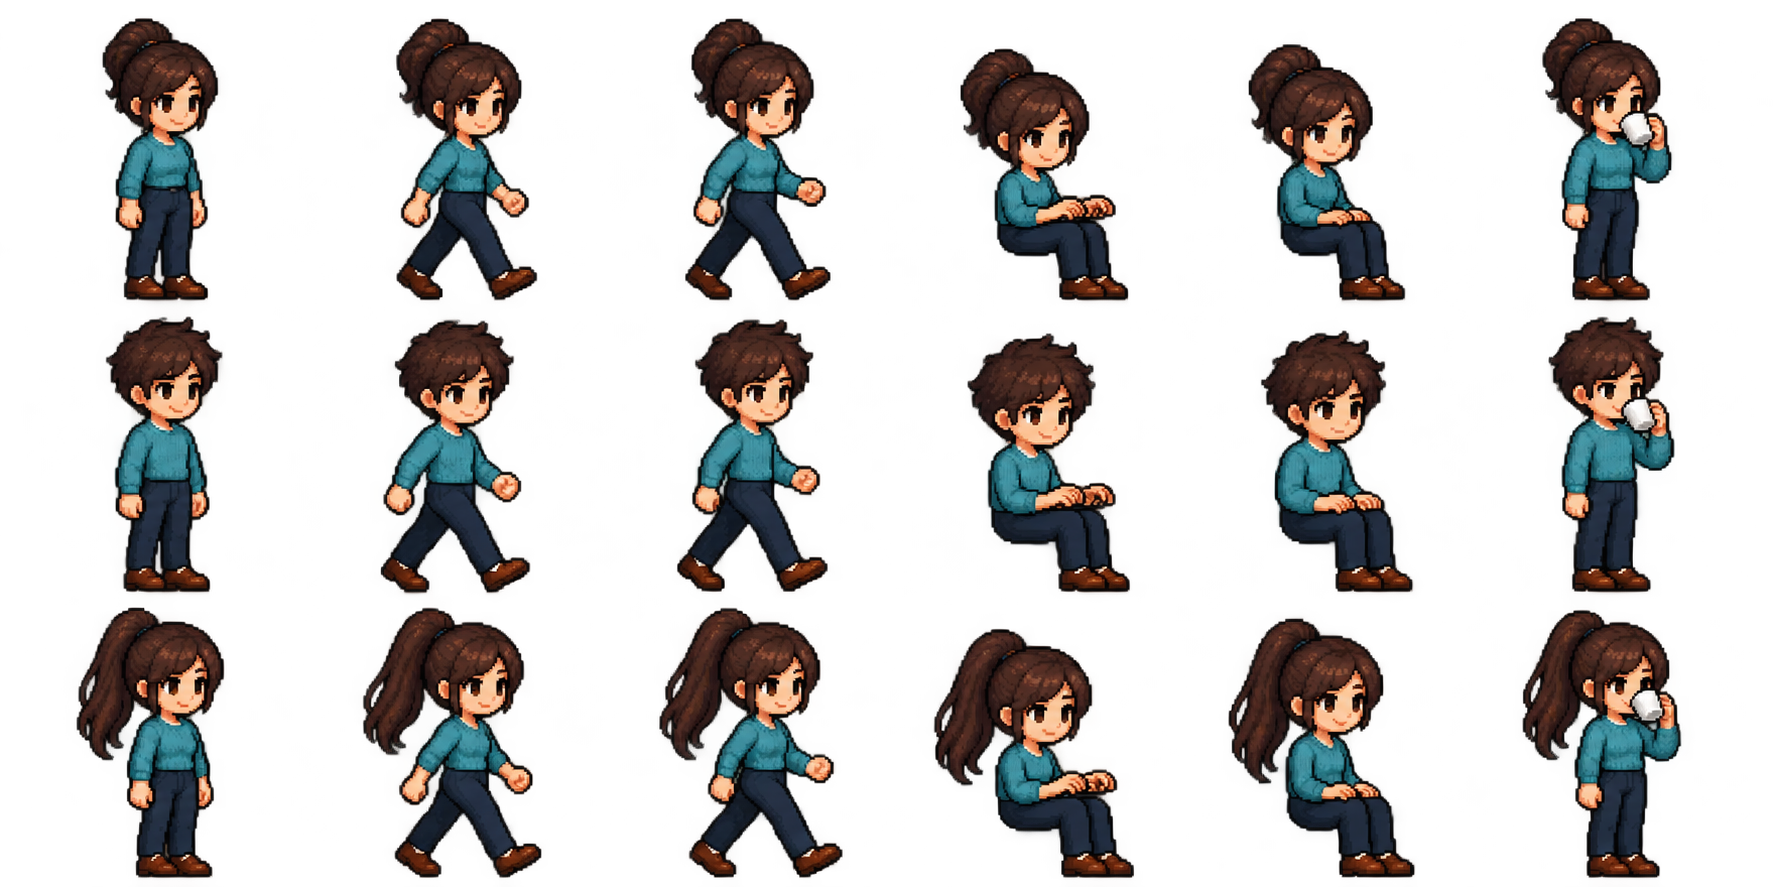
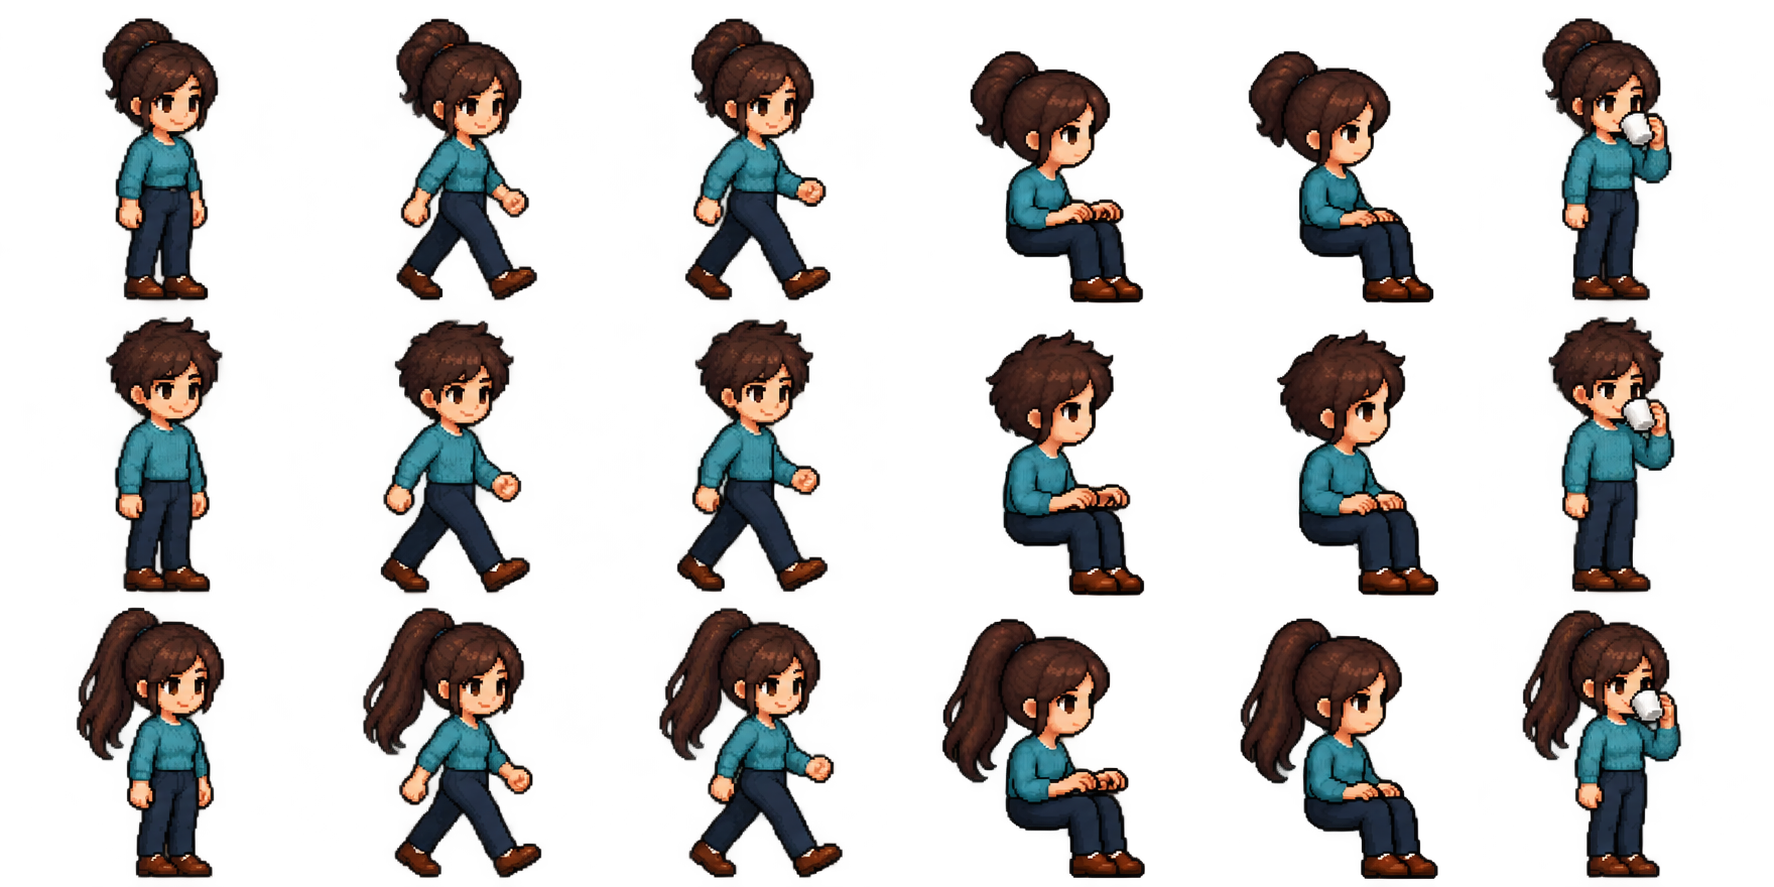
Align workshop seated profiles and preserve private room layouts

diff --git a/resources/app/public/agent-office-scene.js b/resources/app/public/agent-office-scene.js
@@ -24,7 +24,14 @@ let resources;
 function load(){if(!resources)resources=Promise.all([import('/agent-office-workshop-model.js'),...['architecture','furniture','people','desk','people-back','tall-furniture','wall-atlas','stairs','stations','office-chair'].map(name=>new Promise((resolve,reject)=>{const image=new Image();image.onload=()=>resolve(image);image.onerror=reject;image.src=BASE+name+'.png';}))]).then(([,architecture,furniture,people,desk,peopleBack,tallFurniture,wallAtlas,stairs,stations,officeChair])=>(loadedArt={architecture,furniture,people,desk,peopleBack,tallFurniture,wallAtlas,stairs,stations,officeChair,model:root.BLWorkshopModel}));return resources;}
 const COLORS={hairColor:{brown:[89,49,32],black:[36,31,32],auburn:[133,57,36],blonde:[193,144,75],silver:[150,155,160]},clothes:{cream:[211,198,171],blue:[64,103,149],green:[82,110,74],ink:[56,65,80],rust:[153,82,55]},bottoms:{navy:[37,54,73],black:[36,37,43],denim:[62,97,133],cream:[180,166,145]},shoes:{brown:[106,60,33],black:[37,34,36],white:[207,206,198]},skin:[[241,194,152],[219,159,111],[177,117,79],[130,78,52],[87,54,40]]};
 const sprites=new Map();
-const ANCHORS=[{x:58,eye:32,neck:44,body:59},{x:58,eye:32,neck:44,body:59},{x:58,eye:32,neck:44,body:59},{x:51,eye:45,neck:58,body:67},{x:54,eye:45,neck:58,body:67},{x:51,eye:32,neck:44,body:59}];
+const ANCHORS=[{x:58,eye:32,neck:44,body:59},{x:58,eye:32,neck:44,body:59},{x:58,eye:32,neck:44,body:59},{x:61,eye:44,neck:58,body:67,bodyX:54,neckX:54,profile:true},{x:61,eye:44,neck:58,body:67,bodyX:54,neckX:54,profile:true},{x:51,eye:32,neck:44,body:59}];
+// Atlas rows have different head heights; accessory anchors follow each pose.
+const SEATED_ANCHORS=[
+ [{x:60,eye:44,neck:57,body:67,bodyX:54,neckX:54,profile:true},{x:55,eye:44,neck:57,body:67,bodyX:51,neckX:51,profile:true}],
+ [{x:60,eye:36,neck:50,body:60,bodyX:54,neckX:54,profile:true},{x:60,eye:36,neck:50,body:60,bodyX:54,neckX:54,profile:true}],
+ [{x:58,eye:36,neck:50,body:60,bodyX:53,neckX:53,profile:true},{x:58,eye:36,neck:50,body:60,bodyX:53,neckX:53,profile:true}]
+];
+const poseAnchor=(profile,frame)=>frame===3||frame===4?SEATED_ANCHORS[persona(profile)][frame-3]:ANCHORS[frame];
 function sprite(p,frame,art,back=false){const a=p.avatar||{},row=persona(p),cacheKey=JSON.stringify([row,a,frame,back]);if(sprites.has(cacheKey))return sprites.get(cacheKey);const c=document.createElement('canvas');c.width=96;c.height=100;const ctx=c.getContext('2d',{willReadFrequently:true});ctx.imageSmoothingEnabled=false;
  const y=[0,305,600][row],height=[305,295,287][row],cw=1774/6;ctx.drawImage(back?art.peopleBack:art.people,frame*cw,y,cw,height,0,0,96,100);const data=ctx.getImageData(0,0,96,100),hair=COLORS.hairColor[a.hairColor]||COLORS.hairColor.brown,top=COLORS.clothes[a.clothes]||COLORS.clothes.blue,legs=COLORS.bottoms[a.bottoms]||COLORS.bottoms.navy,shoes=COLORS.shoes[a.shoes]||COLORS.shoes.brown,skin=COLORS.skin[a.skin]||COLORS.skin[0];
  for(let index=0;index<data.data.length;index+=4){if(data.data[index+3]<90)continue;const r=data.data[index],g=data.data[index+1],b=data.data[index+2],yy=Math.floor(index/4/96);let target,base;
@@ -36,8 +43,8 @@ function sprite(p,frame,art,back=false){const a=p.avatar||{},row=persona(p),cach
  if(target){const light=(r+g+b)/3/base;for(let j=0;j<3;j++)data.data[index+j]=Math.min(255,target[j]*light);}}
  ctx.putImageData(data,0,0);
  // Outfit seams and accessories share the frame's torso/head anchors.
- const anchor=ANCHORS[frame],headX=anchor.x,headY=anchor.eye-8,bodyY=anchor.body;
- if(a.top==='jacket'||a.top==='cardigan'){ctx.fillStyle='rgba(18,24,32,.55)';ctx.fillRect(headX-3,bodyY-8,2,18);ctx.fillRect(headX+8,bodyY,5,2);}if(a.top==='shirt'){ctx.fillStyle='rgba(255,255,255,.55)';ctx.fillRect(headX-2,bodyY-9,4,2);ctx.fillRect(headX,bodyY-5,1,10);}if(!back&&(a.glasses===true||a.glasses===undefined&&a.accessory==='glasses')){ctx.strokeStyle='#302d2d';ctx.lineWidth=1;ctx.strokeRect(headX-4,anchor.eye-2,6,4);ctx.strokeRect(headX+4,anchor.eye-2,6,4);ctx.fillRect(headX+2,anchor.eye-1,2,1);}if(a.ornament==='headphones'||a.ornament===undefined&&a.accessory==='headphones'){ctx.strokeStyle='#303945';ctx.lineWidth=2;ctx.beginPath();ctx.arc(headX,anchor.eye-11,13,Math.PI,Math.PI*2);ctx.stroke();ctx.fillStyle='#303945';ctx.fillRect(headX-13,anchor.eye-12,3,10);}if(a.ornament==='scarf'){ctx.fillStyle='#b76c50';ctx.fillRect(headX-5,anchor.neck-2,15,3);ctx.fillRect(headX+5,anchor.neck+1,3,11);}
+ const anchor=poseAnchor(p,frame),headX=anchor.x,bodyX=anchor.bodyX??headX,neckX=anchor.neckX??headX,bodyY=anchor.body;
+ if(a.top==='jacket'||a.top==='cardigan'){ctx.fillStyle='rgba(18,24,32,.55)';ctx.fillRect(bodyX-3,bodyY-8,2,18);ctx.fillRect(bodyX+8,bodyY,5,2);}if(a.top==='shirt'){ctx.fillStyle='rgba(255,255,255,.55)';ctx.fillRect(bodyX-2,bodyY-9,4,2);ctx.fillRect(bodyX,bodyY-5,1,10);}if(!back&&(a.glasses===true||a.glasses===undefined&&a.accessory==='glasses')){ctx.strokeStyle='#302d2d';ctx.lineWidth=1;if(anchor.profile){ctx.strokeRect(headX-1,anchor.eye-2,6,4);ctx.beginPath();ctx.moveTo(headX-1,anchor.eye-1);ctx.lineTo(headX-11,anchor.eye-3);ctx.stroke();}else{ctx.strokeRect(headX-4,anchor.eye-2,6,4);ctx.strokeRect(headX+4,anchor.eye-2,6,4);ctx.fillRect(headX+2,anchor.eye-1,2,1);}}if(a.ornament==='headphones'||a.ornament===undefined&&a.accessory==='headphones'){ctx.strokeStyle='#303945';ctx.lineWidth=2;ctx.beginPath();ctx.arc(anchor.profile?headX-7:headX,anchor.eye-11,13,Math.PI,Math.PI*2);ctx.stroke();ctx.fillStyle='#303945';ctx.fillRect(headX-13,anchor.eye-12,3,10);}if(a.ornament==='scarf'){ctx.fillStyle='#b76c50';ctx.fillRect(neckX-5,anchor.neck-2,15,3);ctx.fillRect(neckX+5,anchor.neck+1,3,11);}
  if(sprites.size>=96)sprites.delete(sprites.keys().next().value);sprites.set(cacheKey,c);return c;}
 function composeTransition(canvas,image,previous,blend,width,height){const out=canvas.getContext('2d');out.save();out.imageSmoothingEnabled=false;out.clearRect(0,0,width,height);out.globalCompositeOperation='source-over';out.globalAlpha=1-blend;out.drawImage(image,0,0,width,height);out.globalCompositeOperation='lighter';out.globalAlpha=blend;out.drawImage(previous,0,0,width,height);out.restore();return canvas;}
 function create(canvas,hooks={}){
@@ -90,7 +97,7 @@ function create(canvas,hooks={}){
  if(sofa){const b=base(sofa);p={x:b.x+(a.sofaSeat-1)*24,y:b.y-13};}
  if(seated&&!sofa){const chairHeight=48*(CHAIR_RECT[3]-CHAIR_RECT[1])/(CHAIR_RECT[2]-CHAIR_RECT[0]);ctx.save();ctx.translate(p.x,base(a.station.desk).y+2-chairHeight);ctx.scale(a.face,1);drawLit(litObject({kind:'chair'},48,chairHeight),'chair:classic:48:'+chairHeight,-22,0,48,chairHeight);ctx.restore();}
  const meeting=!a.route.length&&a.mode==='meeting'&&a.meetingPoint&&a.point.floor===a.meetingPoint.floor&&a.point.x===a.meetingPoint.x&&a.point.y===a.meetingPoint.y?items().find(i=>i.id===a.meetingTableId):null;if(meeting){const b=base(meeting),scale=art.model.scale(meeting);p={x:b.x+(a.meetingSeat%2===0?-35:35)*scale,y:b.y-(a.meetingSeat<2?7:62)*scale};a.face=a.meetingSeat%2===0?1:-1;a.facing=a.face===1?'right':'left';}
- const frame=a.route.length?(time<a.standUntil?0:Math.floor(time*7)%2?1:2):a.mode==='coffee'?5:sofa?4:seated?(a.status==='working'||a.status==='responding'?(Math.floor(time*3)%3===0?4:3):4):meeting?4:0;const back=a.facing==='back'&&!seated&&!sofa;const image=sprite(a.profile,frame,art,back),size=seated||meeting?SEATED_SIZE:STANDING_SIZE,bob=enabled&&!motion.matches?(a.route.length?Math.sin(time*14):Math.sin(time*1.7)*.5):0,y=p.y-size+bob-(a.celebrate>time?2:0);ctx.save();ctx.translate(Math.round(p.x),Math.round(y));ctx.scale(a.face,1);drawLit(litCharacter(image),image,-size/2,0,size,size,true);if(!back&&enabled&&!motion.matches&&(time+actors.indexOf(a)*1.7)%5<.13&&!a.profile.avatar?.glasses){const anchor=ANCHORS[frame],x=anchor.x/96*size-size/2,y=anchor.eye/100*size;ctx.fillStyle='rgba(92,53,38,.8)';ctx.fillRect(Math.round(x-4),Math.round(y),5,1);ctx.fillRect(Math.round(x+5),Math.round(y),4,1);}ctx.restore();actorRects.set(a.id,{x:p.x-30,y,w:60,h:size});if(a.reaction>time||a.celebrate>time||enabled&&!motion.matches&&['coffee','rest','meeting'].includes(a.mode)&&Math.floor(time)%9<2&&actors.some(b=>b.id!==a.id&&b.point.floor===a.point.floor&&Math.abs(b.point.x-a.point.x)<3)){ctx.fillStyle='#e8cf94';ctx.font='bold 14px Barlow';ctx.fillText(a.celebrate>time?'✓':'…',p.x+24,y+8);}
+ const frame=a.route.length?(time<a.standUntil?0:Math.floor(time*7)%2?1:2):a.mode==='coffee'?5:sofa?4:seated?(a.status==='working'||a.status==='responding'?(Math.floor(time*3)%3===0?4:3):4):meeting?4:0;const back=a.facing==='back'&&!seated&&!sofa;const image=sprite(a.profile,frame,art,back),size=seated||meeting?SEATED_SIZE:STANDING_SIZE,bob=enabled&&!motion.matches?(a.route.length?Math.sin(time*14):Math.sin(time*1.7)*.5):0,y=p.y-size+bob-(a.celebrate>time?2:0);ctx.save();ctx.translate(Math.round(p.x),Math.round(y));ctx.scale(a.face,1);drawLit(litCharacter(image),image,-size/2,0,size,size,true);if(!back&&enabled&&!motion.matches&&(time+actors.indexOf(a)*1.7)%5<.13&&!a.profile.avatar?.glasses){const anchor=poseAnchor(a.profile,frame),x=anchor.x/96*size-size/2,y=anchor.eye/100*size;ctx.fillStyle='rgba(92,53,38,.8)';ctx.fillRect(Math.round(x+(anchor.profile?-1:-4)),Math.round(y),5,1);if(!anchor.profile)ctx.fillRect(Math.round(x+5),Math.round(y),4,1);}ctx.restore();actorRects.set(a.id,{x:p.x-30,y,w:60,h:size});if(a.reaction>time||a.celebrate>time||enabled&&!motion.matches&&['coffee','rest','meeting'].includes(a.mode)&&Math.floor(time)%9<2&&actors.some(b=>b.id!==a.id&&b.point.floor===a.point.floor&&Math.abs(b.point.x-a.point.x)<3)){ctx.fillStyle='#e8cf94';ctx.font='bold 14px Barlow';ctx.fillText(a.celebrate>time?'✓':'…',p.x+24,y+8);}
  if(selected===a.id){ctx.strokeStyle='#8bb8d0';ctx.lineWidth=1;ctx.beginPath();ctx.ellipse(p.x,p.y-1,21,4,0,0,Math.PI*2);ctx.stroke();}
  }
  function labelActor(a){ctx.font='bold 12px Barlow Condensed';const r=actorRects.get(a.id);if(!r)return;const p={x:r.x+30},y=r.y;const role=a.profile.role==='Collection'?(document.documentElement.lang?.startsWith('en')?'COLLECTION':'KOLEKSİYON'):a.profile.role==='Quality'?(document.documentElement.lang?.startsWith('en')?'QUALITY':'KALİTE'):a.profile.role||'',name=(a.profile.name||'')+(role?' · '+role:''),labelWidth=ctx.measureText(name).width+24;ctx.fillStyle='rgba(18,30,39,.9)';ctx.fillRect(p.x-labelWidth/2,y-19,labelWidth,17);ctx.fillStyle=['error','offline'].includes(a.status)?'#bda183':['working','reviewing','responding'].includes(a.status)?'#8fb9d5':a.status==='waiting'?'#e6bf75':'#a7c382';ctx.fillRect(p.x-labelWidth/2+5,y-13,5,5);ctx.fillStyle='#e2e6de';ctx.font='bold 12px Barlow Condensed';ctx.fillText(name,p.x-labelWidth/2+15,y-6);}

diff --git a/resources/app/tests/agent-office-workshop-store.test.js b/resources/app/tests/agent-office-workshop-store.test.js
@@ -148,3 +148,16 @@ test('reference workstation and library styles survive private reopen; larger sh
   assert.equal(normalizeOffice({scene:'workshop-v1',furniture:[{...furniture[0],style:'library'}]}).furniture[0].style,undefined,'Style cannot impersonate another furniture kind');
   assert.doesNotThrow(()=>normalizeOffice(defaultOffice()));
 });
+
+test('reference collection rack stays left of its desk while a saved personal room is never migrated',async t=>{
+  const defaults=defaultOffice(),desk=defaults.furniture.find(i=>i.id==='desk-b'),rack=defaults.furniture.find(i=>i.id==='shelf-upper');
+  assert.equal(rack.kind,'rack');assert.ok(rack.x<desk.x);
+  assert.equal(defaults.furniture.find(i=>i.id==='rack').kind,'plant');
+  assert.doesNotThrow(()=>normalizeOffice(defaults));
+  const root=await fs.mkdtemp(path.join(os.tmpdir(),'bl-workshop-reference-default-'));t.after(()=>fs.rm(root,{recursive:true,force:true}));
+  const store=createAgentOfficeStore({root}),personal=normalizeOffice({...defaults,furniture:[{id:'shelf-upper',kind:'shelf',x:10,y:0,floor:1,rotation:0}]});
+  await store.save('owner-a','office',{id:'layout',...personal},{expectedRevision:0});
+  const state=await createAgentOfficeStore({root}).state('owner-a');
+  assert.deepEqual(state.office.furniture,personal.furniture);
+  assert.equal(state.defaultOffice.furniture.find(i=>i.id==='shelf-upper').kind,'rack');
+});

diff --git a/resources/app/server/lib/agent-office-store.js b/resources/app/server/lib/agent-office-store.js
@@ -71,8 +71,8 @@ function normalizeOffice(raw = {}) {
 const DEFAULT_FURNITURE = [
   {id:'desk-a',kind:'desk',x:4,y:2,floor:1}, {id:'desk-b',kind:'desk',x:12,y:2,floor:1}, {id:'desk-c',kind:'desk',x:20,y:2,floor:1},
   {id:'coffee-bar',kind:'coffee',x:2,y:2,floor:0}, {id:'meeting',kind:'table',x:12,y:2,floor:0}, {id:'sofa',kind:'sofa',x:20,y:2,floor:0},
-  {id:'shelf',kind:'shelf',x:8,y:0,floor:0}, {id:'shelf-entrance',kind:'shelf',x:1,y:0,floor:1}, {id:'rack-quality',kind:'rack',x:23,y:0,floor:1}, {id:'shelf-upper',kind:'shelf',x:10,y:0,floor:1},
-  {id:'rack',kind:'rack',x:16,y:0,floor:1}, {id:'tailor',kind:'mannequin',x:8,y:0,floor:1},
+  {id:'shelf',kind:'shelf',x:8,y:0,floor:0}, {id:'shelf-entrance',kind:'shelf',x:1,y:0,floor:1}, {id:'rack-quality',kind:'rack',x:23,y:0,floor:1}, {id:'shelf-upper',kind:'rack',x:10,y:0,floor:1},
+  {id:'rack',kind:'plant',x:16,y:0,floor:1}, {id:'tailor',kind:'mannequin',x:8,y:0,floor:1},
   {id:'plant-a',kind:'monstera',x:1,y:0,floor:0}, {id:'plant-b',kind:'plant',x:23,y:1,floor:1},
   {id:'board-a',kind:'board',x:3,y:0,floor:1}, {id:'board-b',kind:'board',x:12,y:0,floor:0},
   {id:'rug-meeting',kind:'rug',x:12,y:2,floor:0}, {id:'rug-lounge',kind:'rug',x:20,y:2,floor:0},

diff --git a/docs/ai/AGENT_OFFICE_FINAL_ACCEPTANCE.md b/docs/ai/AGENT_OFFICE_FINAL_ACCEPTANCE.md
@@ -2,6 +2,22 @@
 
 2026-10-10. Bu rapor önceki kabulün devamıdır; canlı şirket kabulü ile anonim yerel kontrolleri birbirine eşitlemez.
 
+## Son görsel poz düzeltmesi / Final pose correction — 2026-10-10
+
+Bu devam, önceki görsel kabulün üzerine gerçek sağa bakan oturma/yazma pozlarını ekler. Topuz, kısa ve uzun saç için iki ayrı oturma karesi atlasın mevcut hücrelerine yerleştirildi. Ayakta durma, yürüyüş ve kahve sütunlarının RGBA pikselleri önceki commit ile birebir karşılaştırılarak korundu. Yeni atlas eklenmedi: on PNG toplam **13,57 MiB**, yaklaşık **60,01 MiB** decode belleği; önceki atlas paketine göre dosya yükü 69.425 bayt azaldı. İşlem veya AI çağrısı üretmeyen görselleştirme değişikliğidir.
+
+Gözlük tek profil lensi ve sapıyla çizilir. Yazma/dinlenme kareleri, üç saç tipi için ayrı göz, boyun ve gövde ankrajlarını kullanır; göz kırpma aynı göz ankrajını paylaşır. Tek bağımsız incelemenin bulduğu kısa/uzun saçta aşağı kayan gözlük P2'si düzeltildi. Gerçek üretim sprite fonksiyonunda **18 aksesuar piksel-delta kontrolü** (üç saç × iki poz × gözlük/kulaklık/atkı) geçti. Ölçek ve aynalama aynı çizim dönüşümünü paylaşır.
+
+Yeni varsayılan düzende koleksiyon askılığı masanın soluna geçer, eski sağ askılığın yerini bitki alır. Ortak modelin çarpışma/rota doğrulaması korunur. Kayıtlı kişisel odalar otomatik taşınmaz veya migrate edilmez; yeni düzen yalnız yeni kullanıcı ya da mevcut, onaylı Varsayılan işlemi ile kullanılır. Kaydedilmiş odanın aynen korunması ve yeni varsayılanın ayrı verilmesi için RED → GREEN regresyon eklendi.
+
+**Doğrulama:** yedi dosyada **50/50** hedefli Agent Office testi, sıfır fail/skip; gerçek browser'da 12 masa ölçek/ayna teması, live preview/discard, private layout save/reopen, reddedilen stil rollback'i, üç masaüstü çözünürlüğü, dört farklı gerçek toplantı sandalyesine rota ve oturma geçti. Açık/koyu/gri UI kontrastı en az 4,5:1; sabit sahne üç temada aynı piksel hash'ini korur. 24 avatar/33 geçerli mobilya stresinde 32 sıcak çizimde cache miss yok; ışık cache'i yaklaşık 2,71 MiB. Ofis JS/atlas/API hatası ve idle AI çağrısı sıfır. Kurumsal bağlantı yerine anonim fixture kullanılmıştır; hiçbir şirket AI işi taklit edilmedi. Tam suite önceki mantıksal görevin kanıtıdır ve yeniden tekrarlanmadı.
+
+25,007 saniyelik bağımsız, eşzamanlı browser yükü olmayan dört karakter ölçümü: 509 çizim, ortalama **1,079 ms**, cold dahil en büyük çizim **150 ms**, Chromium main-thread TaskDuration oranı **%11,85**, JS heap **21,87 MiB**, o sahnenin ışık cache'i **2,23 MiB**. İlk eşzamanlı QA örneği 2,20 ms ortalama/399,6 ms cold maksimum verdi; bu yüzden diğer browser işleri tamamlandıktan sonra ölçüm ayrıştırıldı. Soğuk yükleme maksimumu gizlenmedi; fiziksel CPU/GPU veya sürekli FPS garantisi değildir. Yeni poz atlası dosya sayısı/decode belleğini büyütmez.
+
+Güncel gerçek post-change ekranlar `agent-office-profile-finish-{dark,day,night,compact,editor,meeting}.png` adlarıyla pending görsel klasöründedir. Referans/gerçek ekran karşılaştırması güncellendi. Yeni üç TR/EN not ile pending toplamı **59** olur. Fiziksel Windows/kurumsal LCW kabulü ve piksel piksel sanat kopyası tamamlanmış olarak işaretlenmez. Native Buyer Log navigasyonu, gerçek bağlantı durumları ve üç desteklenen saç seçimi korunur; referansta görünen hayali bağlantı/ek seçimler üretilmez. Server yeniden başlatması gerekir; TEST/STABLE yayımlanmaz.
+
+English: The final pose correction introduces true right-facing seated typing/rest sprites for three hair personas, with per-pose head/neck/torso anchors and single-profile glasses/blinks. The original standing/walking/coffee columns retain identical RGBA pixels. No atlas is added: ten office PNGs now total 13.57 MiB / 60.01 MiB decoded, 69,425 bytes smaller. The new default places the collection rack left of its desk without migrating saved private rooms. All 50 targeted office tests, 18 actual sprite accessory delta checks, 12 workstation scale/mirror contacts, native edit/save/reopen, three desktop resolutions, four meeting-chair routes, native theme contrast/invariant scene pixels and bounded warm caches pass. Genuine anonymous post-change screenshots and three bilingual notes are included. An independent-review P2 was fixed. Exact bespoke pixel equality, corporate LCW and physical Windows acceptance remain unverified; no TEST/STABLE publication is performed.
+
 ## Referans görseline devam / Reference-fidelity continuation — 2026-10-10
 
 Son yerel devam: **49/49 Agent Office testi**, yedi dosya, sıfır fail/skip; **56 pending sürüm notu**. Aşağıdaki önceki test/maliyet sayıları tarihsel kanıttır.
